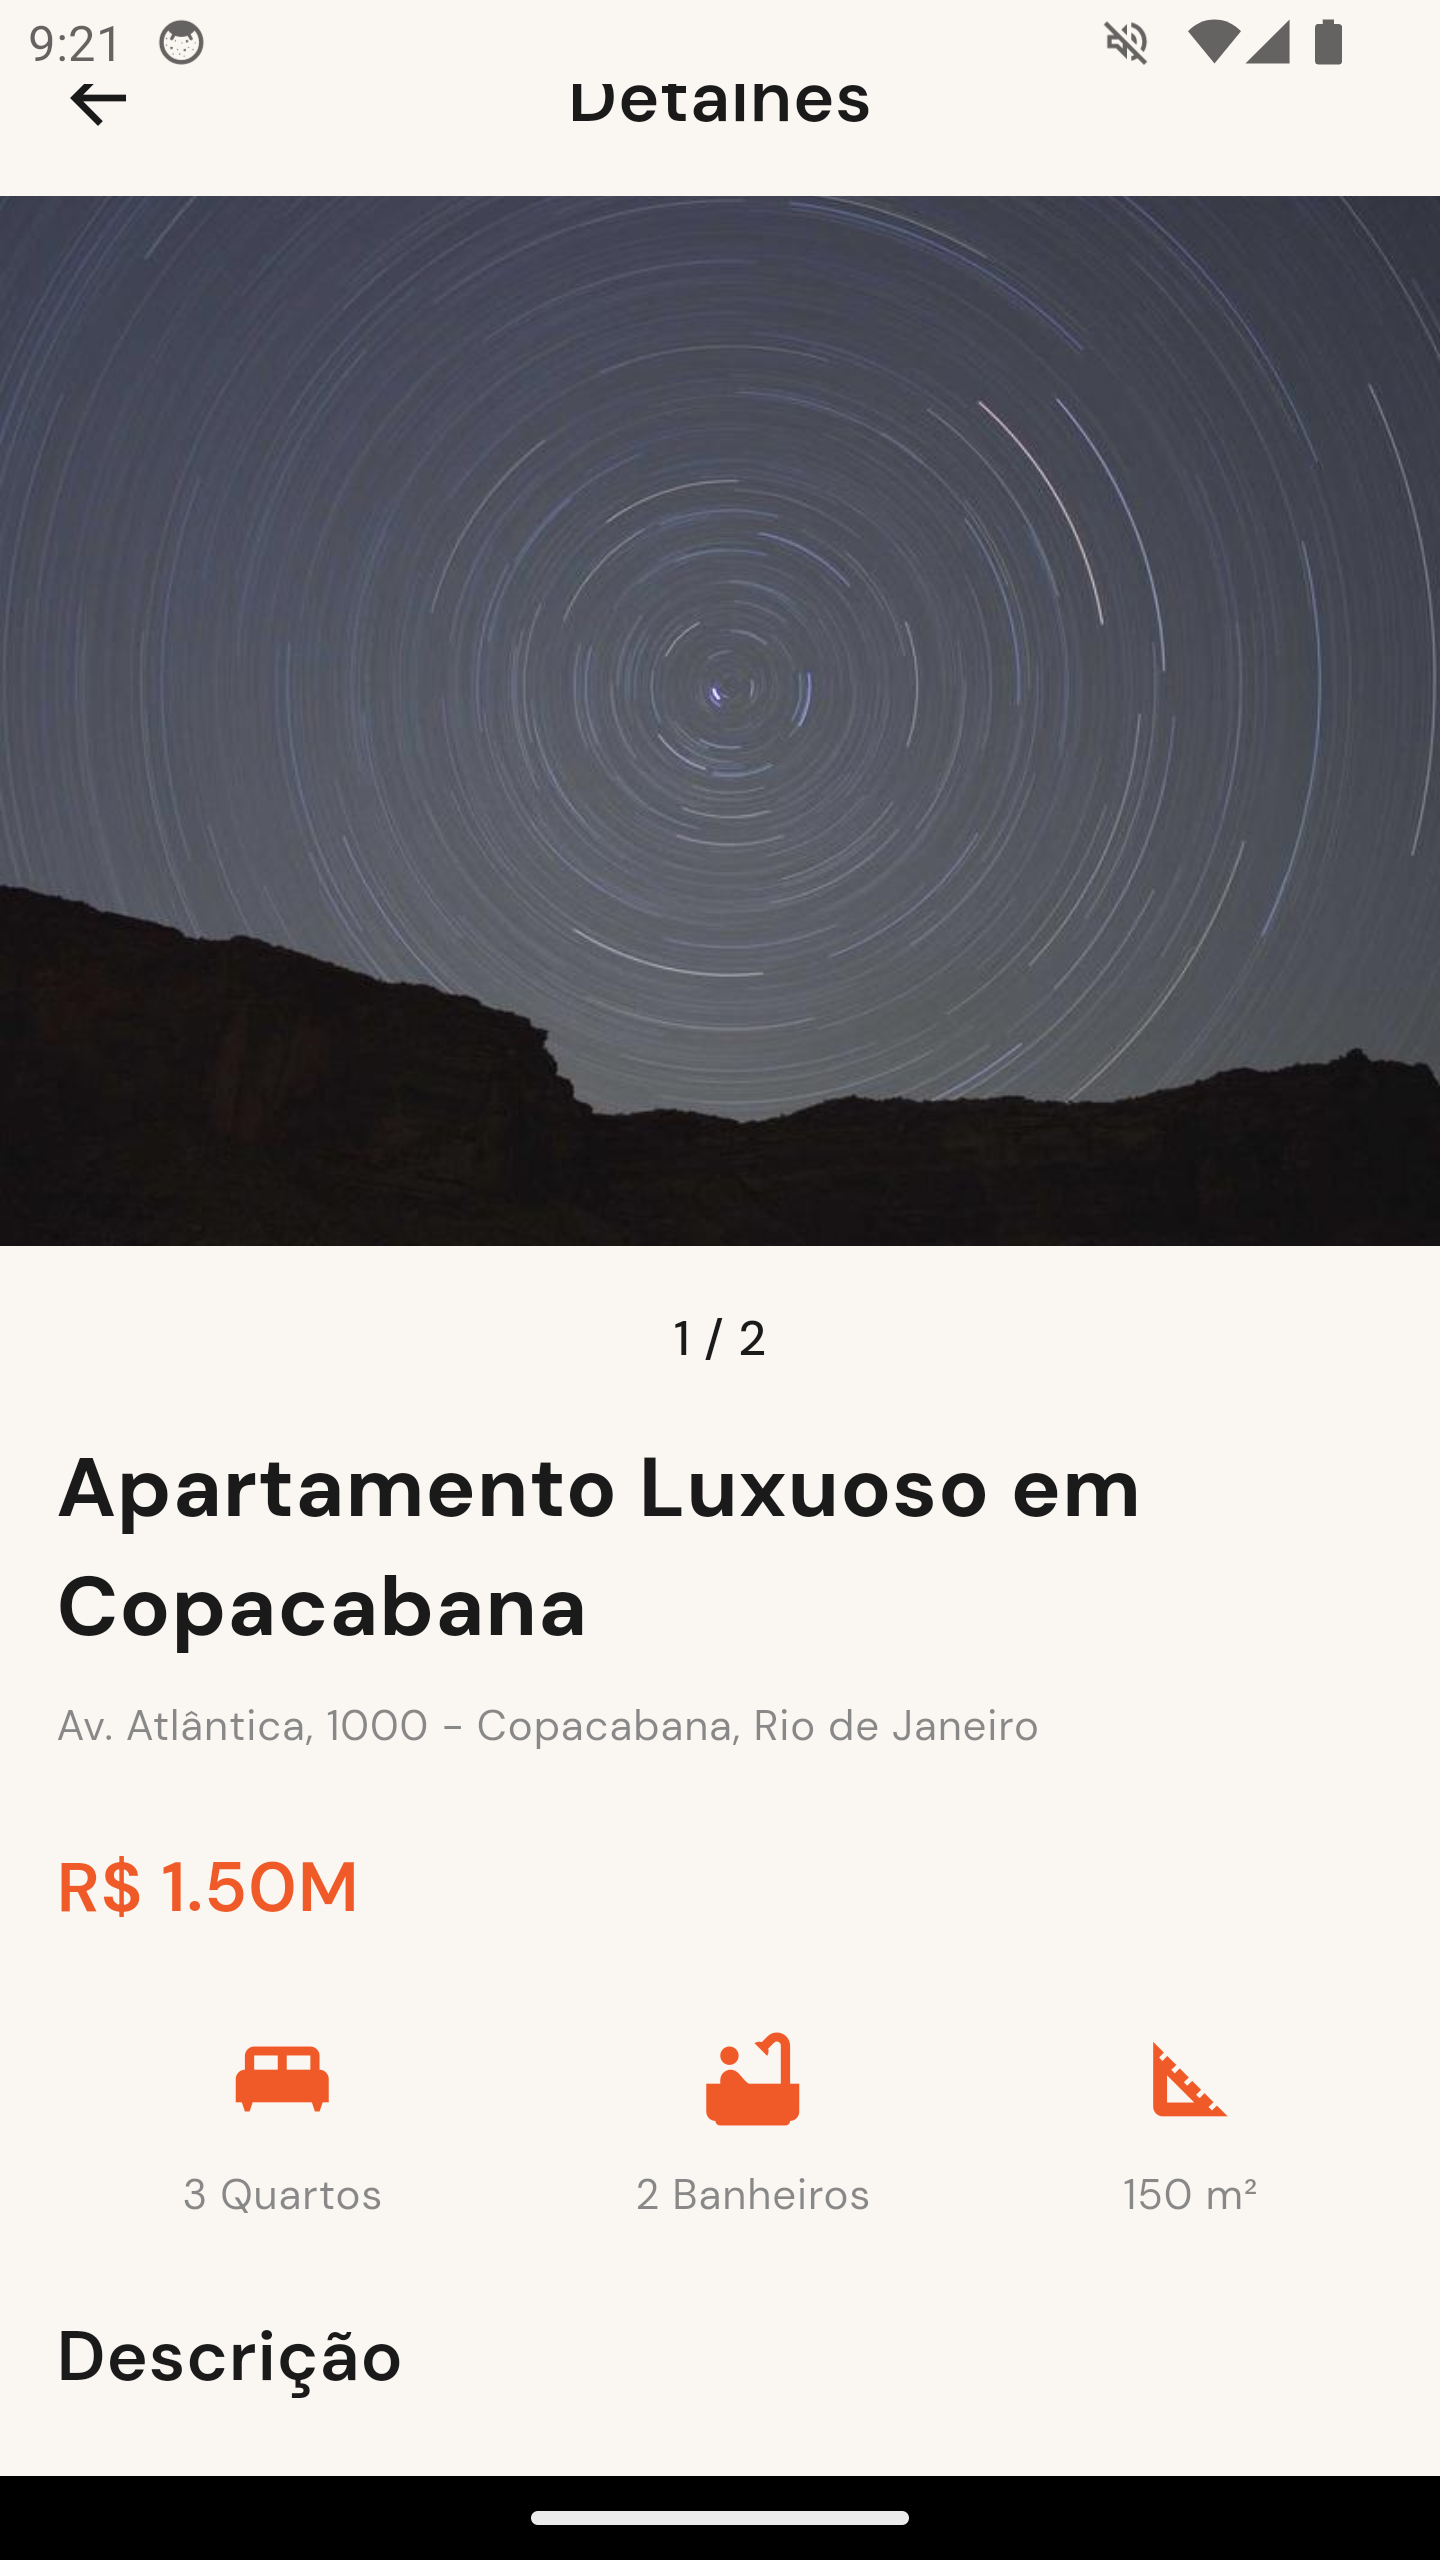
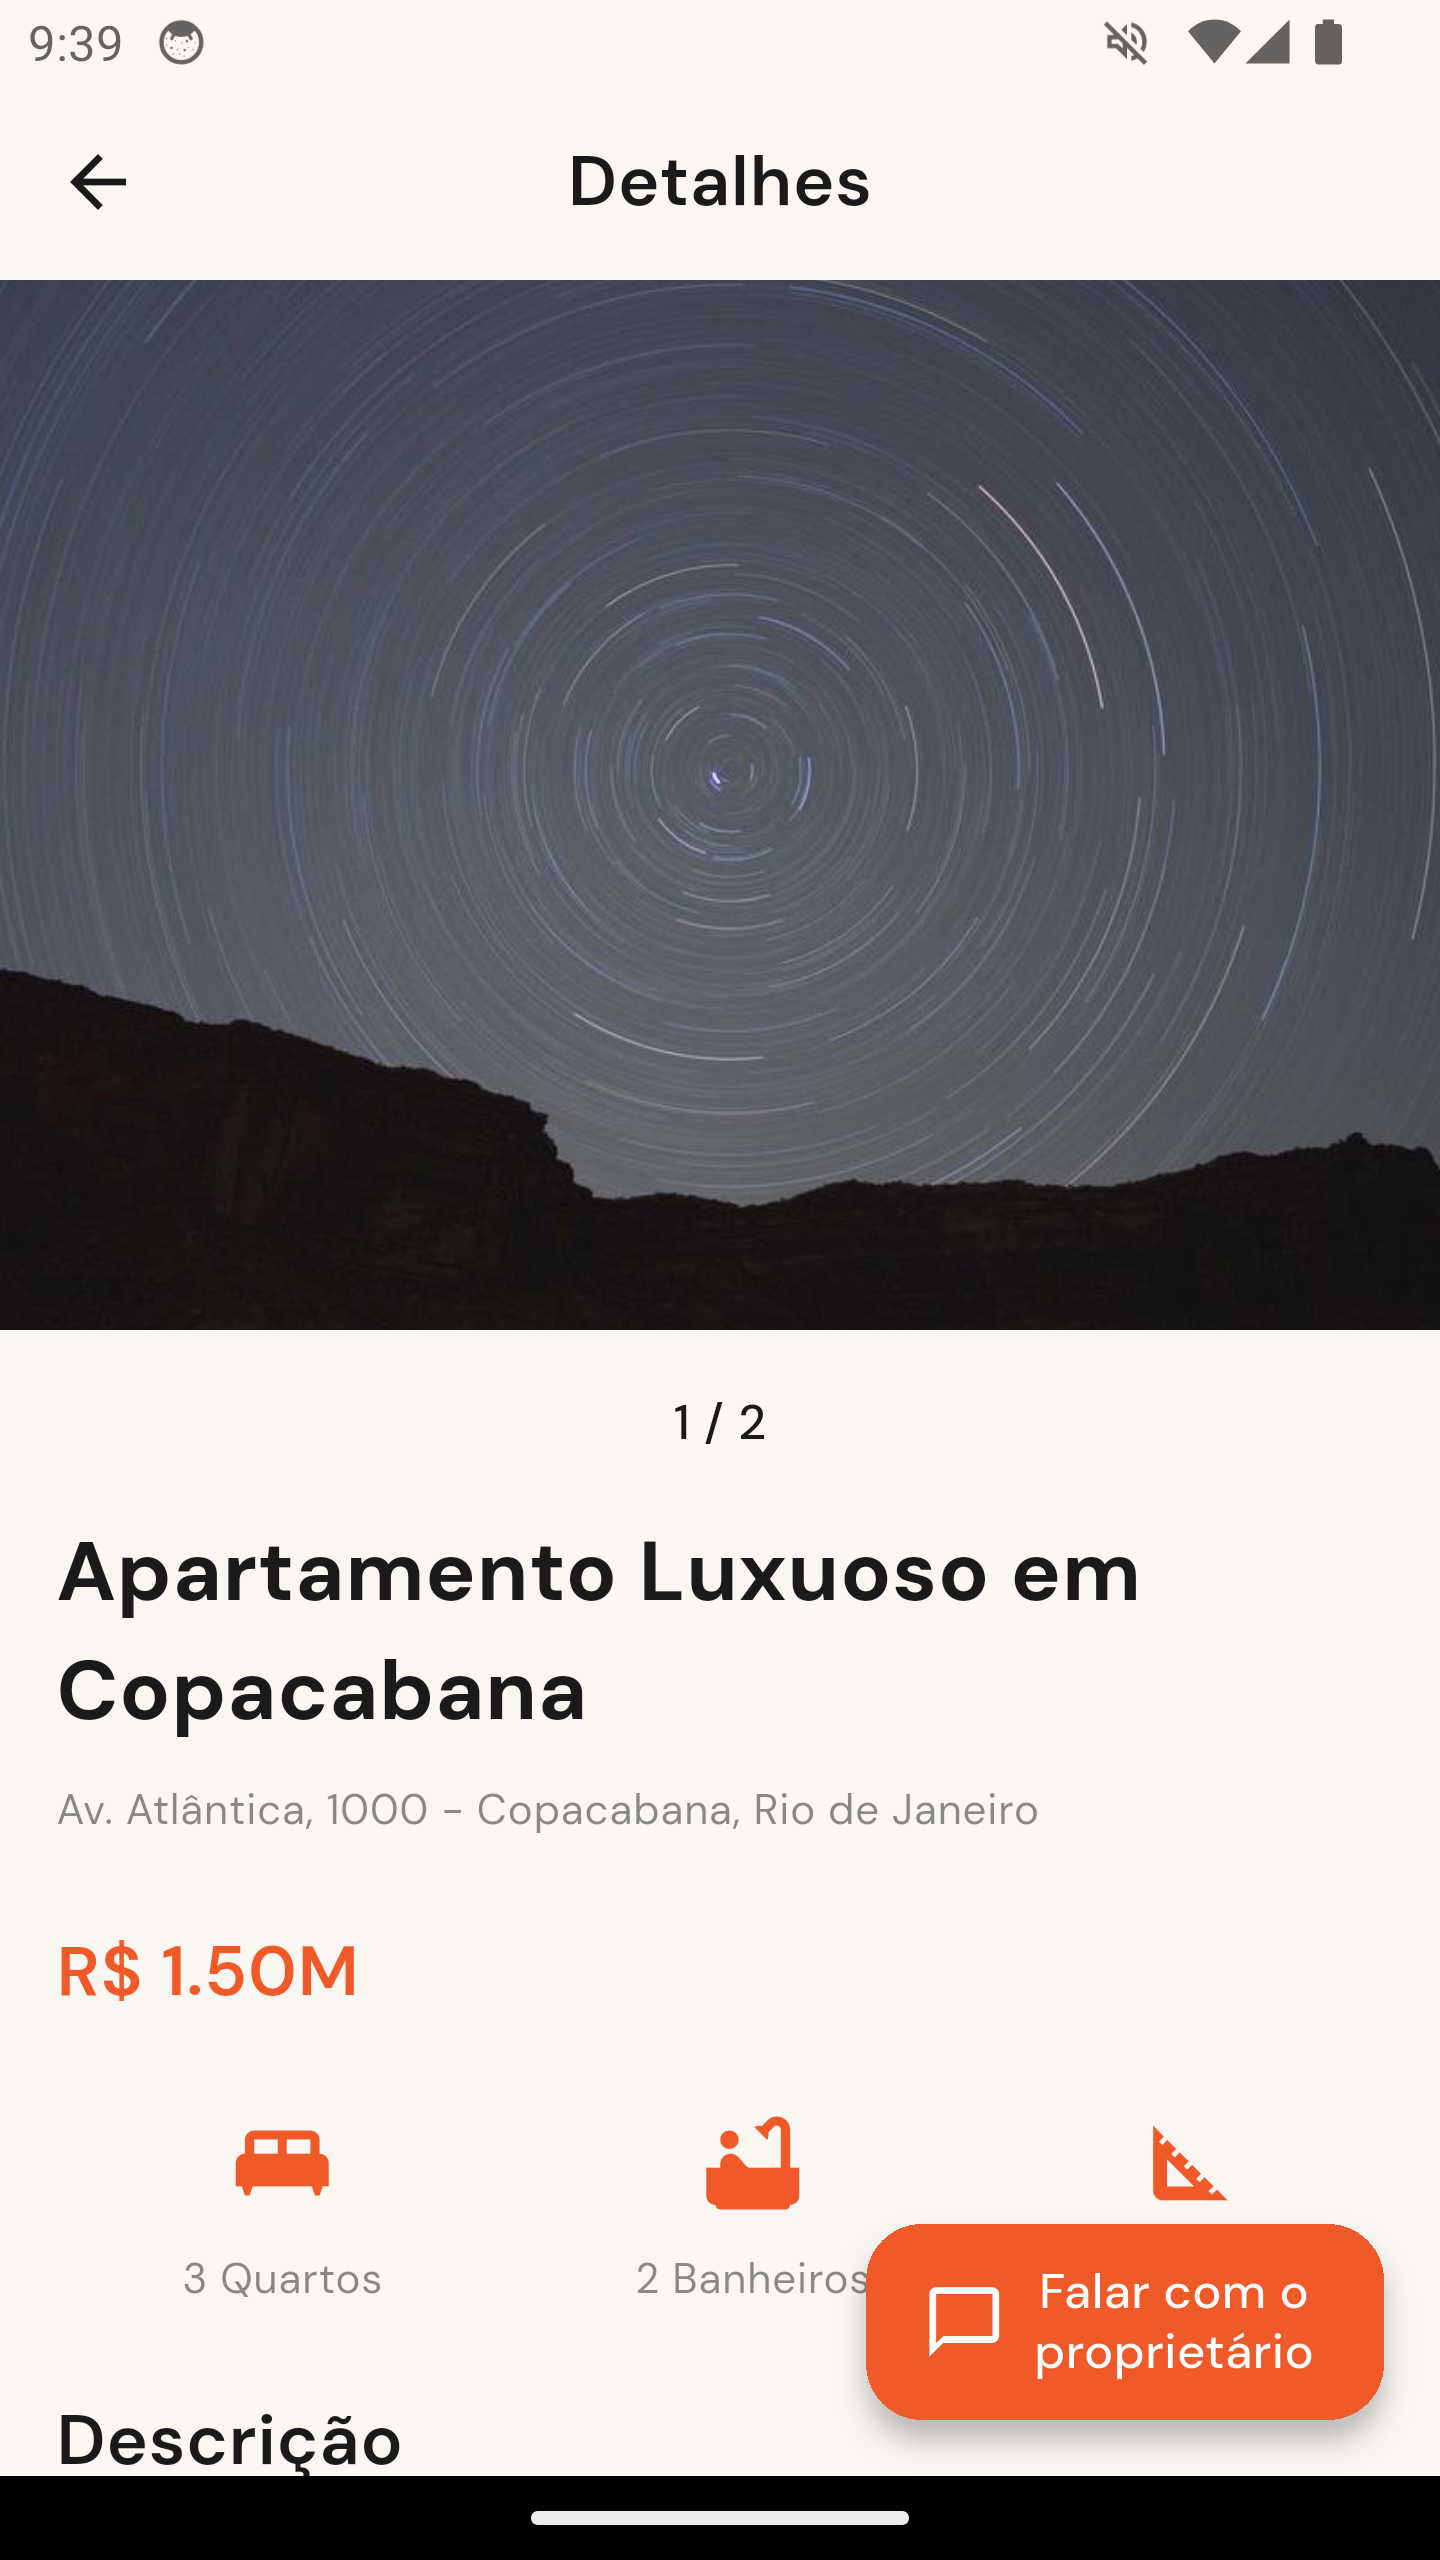
fix(detail): SafeArea no AppBar + FloatingActionButton para chat

diff --git a/lib/features/imoveis/presentation/pages/imovel_detail_page.dart b/lib/features/imoveis/presentation/pages/imovel_detail_page.dart
@@ -74,133 +74,155 @@ class _ImovelDetailContentState extends State<_ImovelDetailContent> {
 
   @override
   Widget build(BuildContext context) {
-    return SingleChildScrollView(
-      child: Column(
-        crossAxisAlignment: CrossAxisAlignment.start,
-        children: [
-          // AppBar customizado
-          SizedBox(
-            height: 56,
-            child: Padding(
-              padding: const EdgeInsets.symmetric(horizontal: AppSpacing.md),
-              child: Row(
-                children: [
-                  GestureDetector(
-                    onTap: () => context.pop(),
-                    child: const Icon(Icons.arrow_back,
-                        color: AppColors.textPrimary),
+    return Scaffold(
+      backgroundColor: AppColors.background,
+      floatingActionButton: FloatingActionButton.extended(
+        backgroundColor: AppColors.primary,
+        foregroundColor: AppColors.textOnPrimary,
+        onPressed: () => context.push('/chat/imovel-${widget.imovel.id}'),
+        icon: const Icon(Icons.chat_bubble_outline),
+        label: Text(
+          'Falar com o\nproprietário',
+          textAlign: TextAlign.center,
+          style: AppTypography.label.copyWith(
+            color: AppColors.textOnPrimary,
+            height: 1.2,
+          ),
+        ),
+      ),
+      body: SafeArea(
+        child: SingleChildScrollView(
+          child: Column(
+            crossAxisAlignment: CrossAxisAlignment.start,
+            children: [
+              // AppBar customizado
+              SizedBox(
+                height: 56,
+                child: Padding(
+                  padding:
+                      const EdgeInsets.symmetric(horizontal: AppSpacing.md),
+                  child: Row(
+                    children: [
+                      GestureDetector(
+                        onTap: () => context.pop(),
+                        child: const Icon(Icons.arrow_back,
+                            color: AppColors.textPrimary),
+                      ),
+                      const Spacer(),
+                      Text(
+                        'Detalhes',
+                        style: AppTypography.heading2,
+                      ),
+                      const Spacer(),
+                      const SizedBox(width: 24),
+                    ],
                   ),
-                  const Spacer(),
-                  Text(
-                    'Detalhes',
-                    style: AppTypography.heading2,
+                ),
+              ),
+
+              // Carrossel de mídias
+              SizedBox(
+                height: 300,
+                child: PageView.builder(
+                  controller: _pageController,
+                  onPageChanged: (index) =>
+                      setState(() => _currentPage = index),
+                  itemCount: widget.imovel.midias.length,
+                  itemBuilder: (context, index) {
+                    final midia = widget.imovel.midias[index];
+                    return midia.tipo == MidiaTipo.foto
+                        ? _buildFotoPage(midia)
+                        : _buildVideoPage(midia);
+                  },
+                ),
+              ),
+
+              // Indicador de página
+              Padding(
+                padding: const EdgeInsets.symmetric(vertical: AppSpacing.md),
+                child: Center(
+                  child: Text(
+                    '${_currentPage + 1} / ${widget.imovel.midias.length}',
+                    style: AppTypography.label,
                   ),
-                  const Spacer(),
-                  const SizedBox(width: 24),
-                ],
+                ),
               ),
-            ),
-          ),
 
-          // Carrossel de mídias
-          SizedBox(
-            height: 300,
-            child: PageView.builder(
-              controller: _pageController,
-              onPageChanged: (index) => setState(() => _currentPage = index),
-              itemCount: widget.imovel.midias.length,
-              itemBuilder: (context, index) {
-                final midia = widget.imovel.midias[index];
-                return midia.tipo == MidiaTipo.foto
-                    ? _buildFotoPage(midia)
-                    : _buildVideoPage(midia);
-              },
-            ),
-          ),
-
-          // Indicador de página
-          Padding(
-            padding: const EdgeInsets.symmetric(vertical: AppSpacing.md),
-            child: Center(
-              child: Text(
-                '${_currentPage + 1} / ${widget.imovel.midias.length}',
-                style: AppTypography.label,
+              // Título
+              Padding(
+                padding: const EdgeInsets.symmetric(horizontal: AppSpacing.md),
+                child: Text(
+                  widget.imovel.titulo,
+                  style: AppTypography.heading1,
+                ),
               ),
-            ),
-          ),
+              const SizedBox(height: AppSpacing.sm),
 
-          // Título
-          Padding(
-            padding: const EdgeInsets.symmetric(horizontal: AppSpacing.md),
-            child: Text(
-              widget.imovel.titulo,
-              style: AppTypography.heading1,
-            ),
-          ),
-          const SizedBox(height: AppSpacing.sm),
-
-          // Endereço
-          Padding(
-            padding: const EdgeInsets.symmetric(horizontal: AppSpacing.md),
-            child: Text(
-              widget.imovel.endereco,
-              style: AppTypography.caption,
-            ),
-          ),
-          const SizedBox(height: AppSpacing.lg),
-
-          // Preço
-          Padding(
-            padding: const EdgeInsets.symmetric(horizontal: AppSpacing.md),
-            child: Text(
-              'R\$ ${(widget.imovel.preco / 1000000).toStringAsFixed(2)}M',
-              style: AppTypography.heading2.copyWith(
-                color: AppColors.primary,
+              // Endereço
+              Padding(
+                padding: const EdgeInsets.symmetric(horizontal: AppSpacing.md),
+                child: Text(
+                  widget.imovel.endereco,
+                  style: AppTypography.caption,
+                ),
               ),
-            ),
-          ),
-          const SizedBox(height: AppSpacing.lg),
+              const SizedBox(height: AppSpacing.lg),
 
-          // Métricas
-          Padding(
-            padding: const EdgeInsets.symmetric(horizontal: AppSpacing.md),
-            child: Row(
-              mainAxisAlignment: MainAxisAlignment.spaceAround,
-              children: [
-                _MetricItem(
-                  icon: Icons.king_bed,
-                  label: '${widget.imovel.quartos} Quartos',
+              // Preço
+              Padding(
+                padding: const EdgeInsets.symmetric(horizontal: AppSpacing.md),
+                child: Text(
+                  'R\$ ${(widget.imovel.preco / 1000000).toStringAsFixed(2)}M',
+                  style: AppTypography.heading2.copyWith(
+                    color: AppColors.primary,
+                  ),
                 ),
-                _MetricItem(
-                  icon: Icons.bathtub,
-                  label: '${widget.imovel.banheiros} Banheiros',
-                ),
-                _MetricItem(
-                  icon: Icons.square_foot,
-                  label: '${widget.imovel.areaM2.toStringAsFixed(0)} m²',
-                ),
-              ],
-            ),
-          ),
-          const SizedBox(height: AppSpacing.lg),
+              ),
+              const SizedBox(height: AppSpacing.lg),
 
-          // Descrição
-          Padding(
-            padding: const EdgeInsets.symmetric(horizontal: AppSpacing.md),
-            child: Column(
-              crossAxisAlignment: CrossAxisAlignment.start,
-              children: [
-                Text('Descrição', style: AppTypography.heading2),
-                const SizedBox(height: AppSpacing.md),
-                Text(
-                  widget.imovel.descricao,
-                  style: AppTypography.body,
+              // Métricas
+              Padding(
+                padding: const EdgeInsets.symmetric(horizontal: AppSpacing.md),
+                child: Row(
+                  mainAxisAlignment: MainAxisAlignment.spaceAround,
+                  children: [
+                    _MetricItem(
+                      icon: Icons.king_bed,
+                      label: '${widget.imovel.quartos} Quartos',
+                    ),
+                    _MetricItem(
+                      icon: Icons.bathtub,
+                      label: '${widget.imovel.banheiros} Banheiros',
+                    ),
+                    _MetricItem(
+                      icon: Icons.square_foot,
+                      label: '${widget.imovel.areaM2.toStringAsFixed(0)} m²',
+                    ),
+                  ],
                 ),
-              ],
-            ),
+              ),
+              const SizedBox(height: AppSpacing.lg),
+
+              // Descrição
+              Padding(
+                padding: const EdgeInsets.symmetric(horizontal: AppSpacing.md),
+                child: Column(
+                  crossAxisAlignment: CrossAxisAlignment.start,
+                  children: [
+                    Text('Descrição', style: AppTypography.heading2),
+                    const SizedBox(height: AppSpacing.md),
+                    Text(
+                      widget.imovel.descricao,
+                      style: AppTypography.body,
+                    ),
+                  ],
+                ),
+              ),
+              // Espaço extra para o FAB não sobrepor o conteúdo
+              const SizedBox(height: 96),
+            ],
           ),
-          const SizedBox(height: AppSpacing.xxl),
-        ],
+        ),
       ),
     );
   }